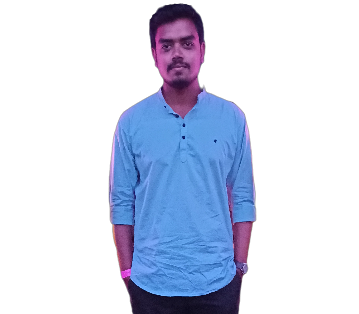
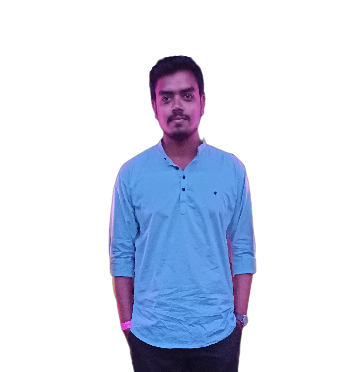
Fourth Change

diff --git a/index.html b/index.html
@@ -50,36 +50,41 @@
       <div class="resume"><a class="btn btn-outline-light" href="#" role="button">Get My Resume</a></div>
     </div>
   </section-body1>
+  <section-twor>
+    <div class="prac" id="About">
 
-  <div class="prac" id="About">
-
-    <div class="container">
-      <div class="content">
-        <!-- Your content goes here -->
-        <img src="./imgaes/IMG6.png">
+      <div class="container">
+        <div class="content">
+          <!-- Your content goes here -->
+          <img src="./imgaes/IMG6.png">
+        </div>
+      </div>
+      <div class="disc">
+        <h1 class="about">About</h1>
+        <p>Welcome to my portfolio! I am a passionate and ambitious software engineer with a recent degree in
+          Information
+          Technology. With a solid foundation in programming languages and a focus on Java, front-end web development,
+          and
+          PHP as a backend, I am excited to kickstart my career in the field.
+          Throughout my academic journey, I have consistently demonstrated my ability to quickly grasp new technologies
+          and apply them to real-world projects. This adaptability has enabled me to stay up-to-date with the latest
+          advancements in the industry. I take great pride in my problem-solving skills, which allow me to tackle
+          complex
+          challenges and deliver efficient solutions.
+          One of my core values is writing clean and efficient code. I understand the significance of code quality and
+          strive to create applications that are not only functional but also maintainable in the long run.
+          Collaboration
+          is also crucial to me, and I believe in fostering effective communication within a team to achieve outstanding
+          results.</p>
+        <div class="linkedin"><a class="btn btn-outline-dark" href="#" role="button">Get My Resume</a></div>
       </div>
     </div>
-    <div class="disc">
-      <h1 class="about">About</h1>
-      <p>Welcome to my portfolio! I am a passionate and ambitious software engineer with a recent degree in Information
-        Technology. With a solid foundation in programming languages and a focus on Java, front-end web development, and
-        PHP as a backend, I am excited to kickstart my career in the field.
-        Throughout my academic journey, I have consistently demonstrated my ability to quickly grasp new technologies
-        and apply them to real-world projects. This adaptability has enabled me to stay up-to-date with the latest
-        advancements in the industry. I take great pride in my problem-solving skills, which allow me to tackle complex
-        challenges and deliver efficient solutions.
-        One of my core values is writing clean and efficient code. I understand the significance of code quality and
-        strive to create applications that are not only functional but also maintainable in the long run. Collaboration
-        is also crucial to me, and I believe in fostering effective communication within a team to achieve outstanding
-        results.</p>
-      <div class="linkedin"><a class="btn btn-outline-dark" href="#" role="button">Get My Resume</a></div>
+  </section-twor>
+  <section-three>
+    <div class="work">
+
     </div>
-  </div>
-
-
-  <div class="work">
-
-  </div>
+  </section-three>
   <!-------------------------------------------- script link ----------------------------------------------->
   <script src="https://cdn.jsdelivr.net/npm/bootstrap@5.3.0/dist/js/bootstrap.bundle.min.js"
     integrity="sha384-geWF76RCwLtnZ8qwWowPQNguL3RmwHVBC9FhGdlKrxdiJJigb/j/68SIy3Te4Bkz"

diff --git a/css/style.css b/css/style.css
@@ -170,7 +170,7 @@
 .container::before {
     content: "";
     position: absolute;
-    width: 100%;
+    /* width: 80%; */
     height: 100%;
     /* background-color: #212529; */
     /* Replace with your desired background color */
@@ -191,13 +191,15 @@
 
 .prac {
     display: flex;
-    height: 34em;
+    /* height: 34em; */
+    height: 100%;
 }
 
 .disc {
     width: 50%;
     padding-top: 2em;
     padding-left: 3em;
+    padding-bottom: 2em;
 }
 
 .about {
@@ -207,8 +209,8 @@
 }
 
 .content img {
-    height: 420px;
-    width: 490px;
+    height: 440px;
+    width: 460px;
 }
 
 .disc p {
@@ -241,19 +243,22 @@
 @media (max-width:1000px) {
     .prac {
         display: block;
+        height: auto;
     }
 
     .disc {
         padding-left: 3em;
         width: 100%;
+        height: 100%;
+        padding-bottom: 2em;
     }
 }
 
 @media (max-width:800px) {
-
+    /* 
     .prac {
         height: 30em;
-    }
+    } */
 
     .content img {
         height: 380px;
@@ -262,14 +267,16 @@
 
     .disc {
         padding-bottom: 2em;
+        /* height: 18em; */
+        height: 100%;
     }
 }
 
 @media (max-width:600px) {
-
+    /* 
     .prac {
         height: 23em;
-    }
+    } */
 
     .content img {
         height: 310px;
@@ -278,6 +285,7 @@
 
     .disc {
         padding-top: 1em;
+        height: 100%;
     }
 
     .about {
@@ -294,9 +302,9 @@
 }
 
 @media (max-width:500px) {
-    .prac {
+    /* .prac {
         height: 20em;
-    }
+    } */
 
     .content img {
         height: 220px;
@@ -313,13 +321,14 @@
 
     .disc {
         padding-bottom: 2em;
+        height: 100%;
     }
 }
 
 @media (max-width:350px) {
-    .prac {
-        height: 18em;
-    }
+    /* .prac {
+        height: 100%em;
+    } */
 
     .content img {
         height: 200px;
@@ -328,5 +337,12 @@
 
     .disc {
         padding-bottom: 2em;
+        height: 100%;
     }
+}
+
+
+.work {
+    background-color: #212529;
+    height: 100vh;
 }
